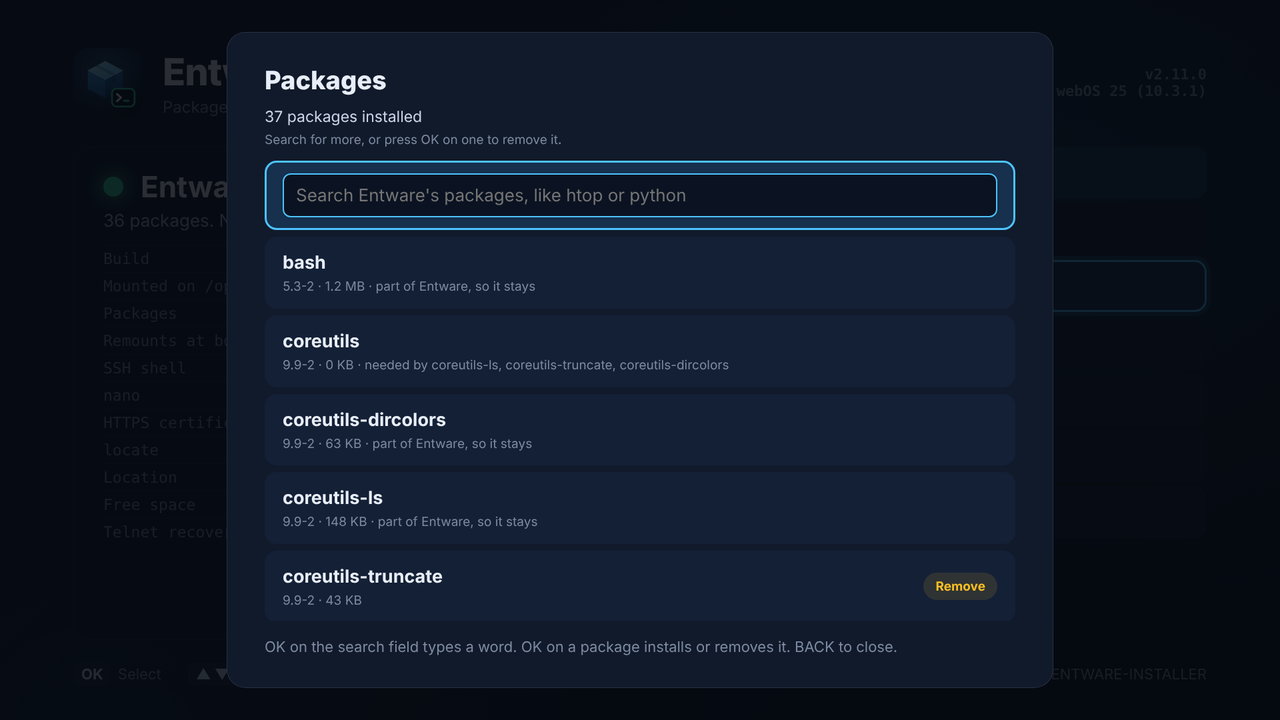
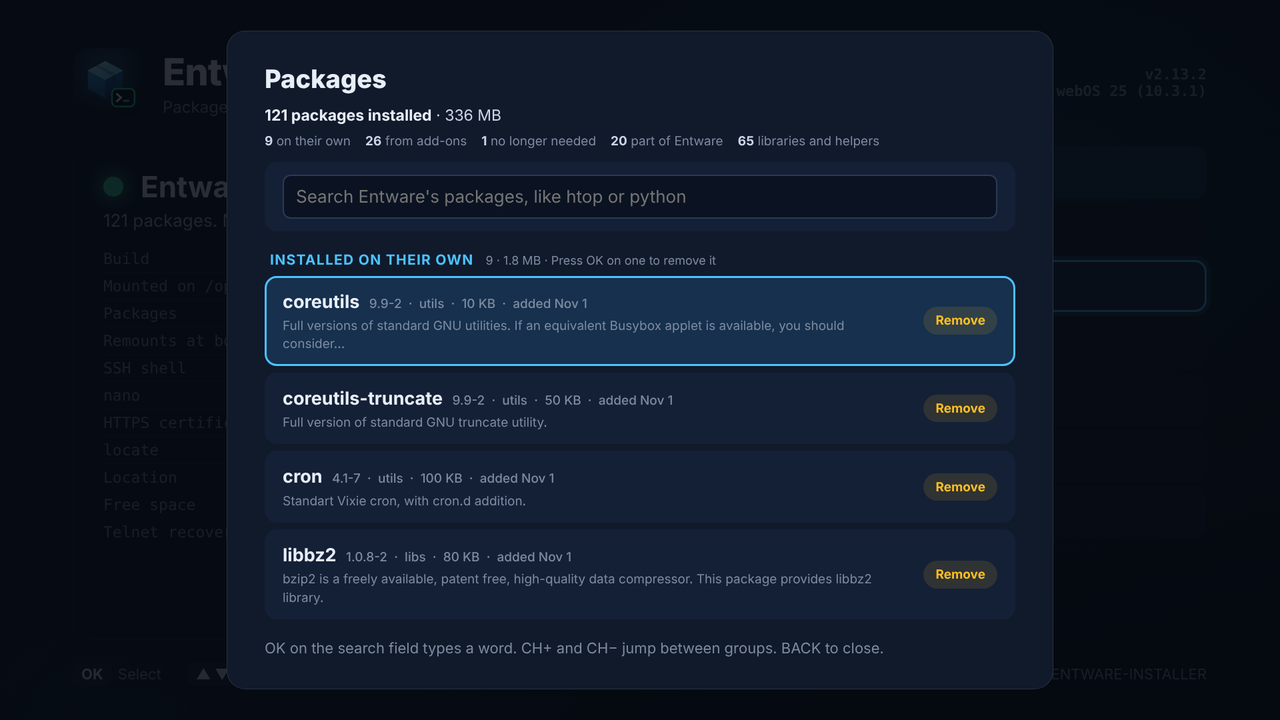
Packages screen: group what's installed and show what each package is
Group installed packages into own, from add-ons, no longer needed, part of
Entware, and libraries, with counts and sizes.  Each row shows version,
section, size, date added and description, with a tag for what you can do.
CH+ and CH- jump between groups.  An add-on's package offers to remove the
add-on.  installed --json reads opkg's files in one awk pass (0.1s on the TV).

diff --git a/webos-app/src/app.js b/webos-app/src/app.js
@@ -20,7 +20,7 @@
     var REPO_PATH = '/ohmybahgosh/WEBOS-ENTWARE-INSTALLER';
     var RELEASES_API = 'https://api.github.com/repos' + REPO_PATH + '/releases/latest';
     var HBC_EXEC = 'luna://org.webosbrew.hbchannel.service/exec';
-    var KEY = { UP: 38, DOWN: 40, ENTER: 13, BACK: 461, ESC: 27, BACKSPACE: 8 };
+    var KEY = { UP: 38, DOWN: 40, ENTER: 13, BACK: 461, ESC: 27, BACKSPACE: 8, CH_UP: 33, CH_DOWN: 34 };
 
     // The script ships inside the app: <app dir>/assets/webos-entware-installer.sh
     var appDir = decodeURIComponent(window.location.pathname).replace(/\/[^\/]*$/, '');
@@ -430,7 +430,9 @@
         for (var r = 0; r < rows.length; r++) { rows[r].className = 'addon' + (r === listIndex ? ' focus' : ''); }
         // Keep the focused row in view
         var box = $('addon-list'), row = rows[listIndex];
-        if (row.offsetTop < box.scrollTop) { box.scrollTop = row.offsetTop; }
+        // A group's heading comes into view with its first row
+        var prev = row.previousElementSibling, top = prev && prev.className === 'pkg-group' ? prev.offsetTop : row.offsetTop;
+        if (top < box.scrollTop) { box.scrollTop = top; }
         else if (row.offsetTop + row.offsetHeight > box.scrollTop + box.clientHeight) { box.scrollTop = row.offsetTop + row.offsetHeight - box.clientHeight; }
     }
 
@@ -782,33 +784,83 @@
         });
     }
 
+    // What's installed, in groups: on their own, from add-ons, no longer
+    // needed, part of Entware, and the libraries others need
+    var PKG_GROUPS = [
+        { id: 'own', title: 'Installed on their own', short: 'on their own', note: 'Press OK on one to remove it' },
+        { id: 'addon', title: 'From add-ons', short: 'from add-ons', note: 'Remove these with their add-on' },
+        { id: 'orphan', title: 'No longer needed', short: 'no longer needed', note: 'Nothing uses these now, so they can go' },
+        { id: 'base', title: 'Part of Entware', short: 'part of Entware', note: 'Entware and its shell setup need these' },
+        { id: 'lib', title: 'Libraries and helpers', short: 'libraries and helpers', note: 'Other packages need these' }
+    ];
+    function pkgGroup(p) {
+        if (p.base) { return 'base'; }
+        if (p.addon) { return 'addon'; }
+        if (!p.auto) { return 'own'; }
+        return p.neededBy ? 'lib' : 'orphan';
+    }
+    var MONTHS = ['Jan', 'Feb', 'Mar', 'Apr', 'May', 'Jun', 'Jul', 'Aug', 'Sep', 'Oct', 'Nov', 'Dec'];
+    function when(t) {
+        if (!t) { return ''; }
+        var d = new Date(t * 1000);
+        return MONTHS[d.getMonth()] + ' ' + d.getDate() + (d.getFullYear() !== new Date().getFullYear() ? ', ' + d.getFullYear() : '');
+    }
     function pkgRow(p) {
         var i = pkgInstalled[p.name];
         if (!pkgQuery) {
-            var why = p.base ? 'part of Entware, so it stays' :
-                (p.neededBy ? 'needed by ' + p.neededBy : (p.addon ? 'from the ' + p.addon + ' add-on' : ''));
-            return { name: p.name, title: p.name, sub: p.version + '  ·  ' + kb(p.sizeKB) + (why ? '  ·  ' + why : ''),
-                pill: p.base || p.neededBy ? '' : 'Remove', cls: 'pill-warn', installed: true };
+            var g = pkgGroup(p);
+            var meta = [p.section, kb(p.sizeKB)];
+            if (g === 'own' || g === 'orphan') { meta.push('added ' + when(p.installed)); }
+            if (g === 'lib') { meta.push('needed by ' + short(p.neededBy, 60)); }
+            if (g === 'orphan') { meta.push('nothing needs it now'); }
+            return { name: p.name, version: p.version, group: g, title: p.name, sub: short(p.description, 110),
+                meta: meta.filter(function (x) { return x && x !== 'added '; }).join('  ·  '),
+                pill: { own: 'Remove', orphan: 'Remove', addon: (p.addonTitle || p.addon) + ' add-on', base: 'Entware', lib: 'Needed' }[g],
+                cls: { own: 'pill-warn', orphan: 'pill-warn', addon: 'pill-addon', base: 'pill-dim', lib: 'pill-dim' }[g], installed: true };
         }
-        return { name: p.name, title: p.name + '  ' + p.version, sub: short(p.description, 110),
+        return { name: p.name, version: p.version, title: p.name, sub: short(p.description, 110), meta: '',
             pill: i ? 'Installed' : 'Install', cls: i ? 'pill-ok' : 'pill-add', installed: !!i };
     }
 
     function renderPackages() {
+        var counts = {}, sizes = {}, total = 0;
+        if (!pkgQuery) {
+            // Grouped, and by name in each group
+            var order = {};
+            PKG_GROUPS.forEach(function (g, n) { order[g.id] = n; counts[g.id] = 0; sizes[g.id] = 0; });
+            pkgList.sort(function (x, y) {
+                var d = order[pkgGroup(x)] - order[pkgGroup(y)];
+                return d || (x.name < y.name ? -1 : (x.name > y.name ? 1 : 0));
+            });
+            pkgList.forEach(function (p) { var g = pkgGroup(p); counts[g]++; sizes[g] += p.sizeKB || 0; total += p.sizeKB || 0; });
+        }
         pkgRows = pkgList.map(pkgRow);
         var head = pkgQuery ?
             (pkgList.length ? esc(pkgList.length + (pkgList.length === 60 ? '+' : '') + ' packages match "' + pkgQuery + '"') :
                 'Nothing matches "' + esc(pkgQuery) + '".  Try a shorter word.') +
                 '  <span class="dim">Press OK on the search to change it, or clear it to see what\'s installed.</span>' :
-            esc(pkgList.length + ' packages installed') + '  <span class="dim">Search for more, or press OK on one to remove it.</span>';
-        var html = '<div class="list-head">' + head + '</div><div class="addons" id="addon-list">' +
+            '<b>' + esc(pkgList.length + ' packages installed') + '</b>  ·  ' + esc(kb(total)) +
+                '<div class="pkg-sum">' + PKG_GROUPS.filter(function (g) { return counts[g.id]; }).map(function (g) {
+                    return '<span><b>' + counts[g.id] + '</b> ' + esc(g.short) + '</span>';
+                }).join('') + '</div>';
+        var last = '';
+        var html = '<div class="list-head">' + head + '</div><div class="addons pkg-list" id="addon-list">' +
             '<div class="addon" data-i="0"><input id="pkg-q" class="pkg-q" type="text" maxlength="40" autocomplete="off" spellcheck="false" ' +
             'placeholder="Search Entware\'s packages, like htop or python" value="' + esc(pkgQuery) + '"></div>' +
             pkgRows.map(function (r, i) {
-                return '<div class="addon" data-i="' + (i + 1) + '"><div><b>' + esc(r.title) + '</b><small>' + esc(r.sub) + '</small></div>' +
+                var g = '';
+                if (!pkgQuery && r.group !== last) {
+                    last = r.group;
+                    var grp = PKG_GROUPS.filter(function (x) { return x.id === r.group; })[0];
+                    g = '<div class="pkg-group"><b>' + esc(grp.title) + '</b><span>' + counts[r.group] + ' · ' + esc(kb(sizes[r.group])) +
+                        '  ·  ' + esc(grp.note) + '</span></div>';
+                }
+                return g + '<div class="addon pkg" data-i="' + (i + 1) + '"><div><b>' + esc(r.title) + ' <span class="ver">' + esc(r.version || '') +
+                    (r.meta ? '  ·  ' + esc(r.meta) : '') + '</span></b>' + (r.sub ? '<small>' + esc(r.sub) + '</small>' : '') + '</div>' +
                     (r.pill ? '<span class="pill ' + r.cls + '">' + esc(r.pill) + '</span>' : '') + '</div>';
             }).join('') + '</div>';
-        overlay('packages', 'Packages', html, 'OK on the search field types a word.  OK on a package installs or removes it.  BACK to close.');
+        overlay('packages', 'Packages', html, pkgQuery ? 'OK on the search field types a word.  OK on a package installs it.  BACK to close.' :
+            'OK on the search field types a word.  CH+ and CH− jump between groups.  BACK to close.');
         var q = $('pkg-q');
         q.addEventListener('keydown', function (e) {
             var k = e.keyCode;
@@ -821,6 +873,18 @@
             row.addEventListener('click', function (e) { e.stopPropagation(); focusAddon(parseInt(row.getAttribute('data-i'), 10)); choosePackage(); });
         });
         focusAddon(Math.min(listIndex, pkgRows.length));
+    }
+
+    // CH+ and CH− (page up and down): the first package of the next or
+    // previous group
+    function jumpGroup(dir) {
+        if (pkgQuery || !pkgRows.length) { return; }
+        var starts = [];
+        pkgRows.forEach(function (r, i) { if (!i || r.group !== pkgRows[i - 1].group) { starts.push(i + 1); } });
+        var at = listIndex, to = null;
+        if (dir > 0) { starts.forEach(function (s0) { if (to === null && s0 > at) { to = s0; } }); }
+        else { starts.forEach(function (s0) { if (s0 < at) { to = s0; } }); if (to === null) { to = 0; } }
+        if (to !== null) { focusAddon(to); }
     }
 
     function runSearch(v) {
@@ -850,6 +914,12 @@
         }
         if (p && p.base) {
             overlay('message', esc(r.name), esc(r.name + ' is part of Entware or its shell setup, so it stays installed.'), 'Press OK or BACK to go back.');
+            return;
+        }
+        if (p && p.addon) {
+            confirmThen('Remove the ' + (p.addonTitle || p.addon) + ' add-on?', r.name + ' came with the ' + (p.addonTitle || p.addon) + ' add-on, so it goes with the add-on, along with its setup.' +
+                '  You can add it again from Add-ons any time.', function () { startJob('remove ' + p.addon); });
+            backTo = 'packages';
             return;
         }
         if (p && p.neededBy) {
@@ -1102,6 +1172,7 @@
     document.addEventListener('keydown', function (e) {
         var k = e.keyCode;
         if (/^(addons|updates|report|packages|logs|addoninfo|web)$/.test(overlayMode || '')) {
+            if (overlayMode === 'packages' && (k === KEY.CH_UP || k === KEY.CH_DOWN)) { jumpGroup(k === KEY.CH_DOWN ? 1 : -1); e.preventDefault(); return; }
             if (k === KEY.UP) { focusAddon(listIndex - 1); }
             else if (k === KEY.DOWN) { focusAddon(listIndex + 1); }
             else if (k === KEY.ENTER) {

diff --git a/tests/ui-test.js b/tests/ui-test.js
@@ -55,9 +55,11 @@ function demo(scenario) {
     if (scenario === 'fresh') { Object.assign(base, { installed: false, mounted: false, opkg: false, packages: null, diskUsed: '' }); }
     let job = null;
     const INSTALLED = [
-        { name: 'bash', version: '5.3-2', sizeKB: 1217, auto: false, neededBy: '', base: true, addon: '' },
-        { name: 'libncurses', version: '6.4-3', sizeKB: 300, auto: true, neededBy: 'bash, htop', base: false, addon: '' },
-        { name: 'tmux', version: '3.5a-1', sizeKB: 812, auto: false, neededBy: '', base: false, addon: 'tmux' }
+        { name: 'bash', version: '5.3-2', sizeKB: 1217, auto: false, neededBy: '', base: true, addon: '', section: 'shells', description: 'The GNU Bourne Again SHell', installed: 1761000000 },
+        { name: 'libncurses', version: '6.4-3', sizeKB: 300, auto: true, neededBy: 'bash, htop', base: false, addon: '', section: 'libs', description: 'Terminal handling library', installed: 1761000000 },
+        { name: 'tmux', version: '3.5a-1', sizeKB: 812, auto: false, neededBy: '', base: false, addon: 'tmux', addonTitle: 'tmux', section: 'utils', description: 'Terminal multiplexer', installed: 1762000000 },
+        { name: 'jq', version: '1.7.1-1', sizeKB: 250, auto: false, neededBy: '', base: false, addon: '', section: 'utils', description: 'Command-line JSON processor', installed: 1762100000 },
+        { name: 'libfoo', version: '1.0-1', sizeKB: 40, auto: true, neededBy: '', base: false, addon: '', section: 'libs', description: 'Leftover library', installed: 1761500000 }
     ];
     const ALL = [
         { name: 'btop', version: '1.4.5-1', description: 'Resource monitor' },
@@ -108,7 +110,7 @@ function demo(scenario) {
                 const a = /^(add|remove) (.*)$/.exec(job.name);
                 if (a) { ADDONS.find((x) => x.id === a[2]).state = a[1] === 'add' ? 'installed' : 'notInstalled'; }
                 const pk = /^pkg-(add|remove) (.*)$/.exec(job.name);
-                if (pk && pk[1] === 'add') { INSTALLED.push({ name: pk[2], version: '3.4.1-1', sizeKB: 400, auto: false, neededBy: '', base: false, addon: '' }); }
+                if (pk && pk[1] === 'add') { INSTALLED.push({ name: pk[2], version: '3.4.1-1', sizeKB: 400, auto: false, neededBy: '', base: false, addon: '', section: 'admin', description: 'Interactive processes viewer', installed: 1762200000 }); }
                 if (pk && pk[1] === 'remove') { INSTALLED.splice(INSTALLED.findIndex((x) => x.name === pk[2]), 1); }
                 if (job.name === 'move appstore') { Object.assign(base, { location: 'appstore', userFreeMB: 181, appFreeMB: 1639, freeMB: 1639 }); }
             }
@@ -409,8 +411,24 @@ function check(name, cond) {
     await press(page, 'ArrowDown', order2.indexOf('packages'));
     await press(page, 'Enter');
     await page.waitForSelector('#pkg-q');
-    check('Packages opens with a search field and what\'s installed', /3 packages installed/.test(await page.textContent('#overlay-body')) && (await page.$$('.addon')).length === 4);
-    check('a package Entware needs, or that others need, has no Remove', await page.$$eval('.addon', (rs) => !/Remove/.test(rs[1].textContent) && /part of Entware/.test(rs[1].textContent) && !/Remove/.test(rs[2].textContent) && /needed by bash, htop/.test(rs[2].textContent) && /Remove/.test(rs[3].textContent)));
+    check('Packages opens with a search field and what\'s installed', /5 packages installed/.test(await page.textContent('#overlay-body')) && (await page.$$('.addon')).length === 6);
+    check('packages are grouped: own, add-ons, no longer needed, Entware, libraries',
+        /Installed on their own.*From add-ons.*No longer needed.*Part of Entware.*Libraries and helpers/.test(await page.$$eval('.pkg-group', (gs) => gs.map((g) => g.textContent).join('|'))));
+    check('each row says what it is and what you can do', await page.$$eval('.addon', (rs) =>
+        /jq/.test(rs[1].textContent) && /Remove/.test(rs[1].textContent) && /1\.7\.1-1/.test(rs[1].textContent) && /JSON/.test(rs[1].textContent) &&
+        /tmux/.test(rs[2].textContent) && /tmux add-on/.test(rs[2].textContent) &&
+        /libfoo/.test(rs[3].textContent) && /Remove/.test(rs[3].textContent) && /nothing needs it now/.test(rs[3].textContent) &&
+        /bash/.test(rs[4].textContent) && /Entware/.test(rs[4].textContent) && !/Remove/.test(rs[4].textContent) &&
+        /libncurses/.test(rs[5].textContent) && /Needed/.test(rs[5].textContent) && /needed by bash, htop/.test(rs[5].textContent) && !/Remove/.test(rs[5].textContent)));
+    check('the summary counts each group', /1 on their own/.test(await page.$eval('.pkg-sum', (e) => e.textContent.replace(/\s+/g, ' '))));
+    await press(page, 'ArrowDown');
+    await press(page, 'PageDown');
+    check('CH+ jumps to the next group', /tmux/.test(await page.$eval('.addon.focus', (r) => r.textContent)));
+    await press(page, 'PageDown', 2);
+    check('and again', /bash/.test(await page.$eval('.addon.focus', (r) => r.textContent)));
+    await press(page, 'PageUp');
+    check('CH- jumps back', /libfoo/.test(await page.$eval('.addon.focus', (r) => r.textContent)));
+    await press(page, 'ArrowUp', 10);
     await page.screenshot({ path: path.join(OUT, '13-packages.png') });
     await press(page, 'Enter');
     check('OK on the search field puts the cursor in it', await page.evaluate(() => document.activeElement && document.activeElement.id === 'pkg-q'));
@@ -434,18 +452,22 @@ function check(name, cond) {
     await page.keyboard.press('Control+A');
     await page.keyboard.press('Backspace');
     await press(page, 'Enter');
-    await page.waitForFunction(() => /4 packages installed/.test(document.getElementById('overlay-body').textContent));
+    await page.waitForFunction(() => /6 packages installed/.test(document.getElementById('overlay-body').textContent));
     check('clearing the search goes back to what\'s installed', true);
-    await press(page, 'ArrowDown', 3);
+    await press(page, 'ArrowDown');
     await press(page, 'Enter');
-    check('asks before removing a package', /Remove tmux\?/.test(await overlayTitle(page)));
+    check('asks before removing a package', /Remove htop\?/.test(await overlayTitle(page)));
     const reads = await page.evaluate(() => window.ENTWARE_CALLS.filter((c) => c === 'installed --json').length);
     await press(page, 'Escape');
     await page.waitForSelector('#pkg-q');
     check('BACK on the question shows the list again straight away, without reading it again',
-        await page.evaluate(() => window.ENTWARE_CALLS.filter((c) => c === 'installed --json').length) === reads && /tmux/.test(await page.$eval('.addon.focus', (r) => r.textContent)));
-    await press(page, 'ArrowUp', 5);
-    await press(page, 'ArrowDown');
+        await page.evaluate(() => window.ENTWARE_CALLS.filter((c) => c === 'installed --json').length) === reads && /htop/.test(await page.$eval('.addon.focus', (r) => r.textContent)));
+    await press(page, 'ArrowDown', 2);
+    await press(page, 'Enter');
+    check('an add-on\'s package is removed with its add-on', /Remove the tmux add-on\?/.test(await overlayTitle(page)));
+    await press(page, 'Escape');
+    await page.waitForSelector('#pkg-q');
+    await press(page, 'ArrowDown', 2);
     await press(page, 'Enter');
     check('bash says it stays', /part of Entware/.test(await page.textContent('#overlay-body')));
     await press(page, 'Escape');

diff --git a/webos-app/src/style.css b/webos-app/src/style.css
@@ -122,3 +122,17 @@ footer .right { margin: 0 0 0 auto; }
 .addons-short { max-height: 260px; }
 .panel-title .pill { font-size: 19px; vertical-align: middle; }
 .cred.web-code { font-family: "DejaVu Sans Mono", "Liberation Mono", Menlo, Consolas, monospace; font-size: 46px; font-weight: 700; letter-spacing: 6px; color: #e8eef7; margin: 4px 0 14px; }
+
+/* Packages: what's installed, in groups */
+.list-head b { color: #e8eef7; }
+.pkg-sum { display: flex; flex-wrap: wrap; gap: 8px 22px; margin-top: 8px; font-size: 19px; color: #7d8ba1; }
+.pkg-sum b { color: #c9d6e8; }
+.pkg-group { display: flex; align-items: baseline; gap: 18px; padding: 18px 8px 8px; }
+.pkg-group b { font-size: 21px; text-transform: uppercase; letter-spacing: .06em; color: #4cc3ff; }
+.pkg-group span { font-size: 18px; color: #7d8ba1; }
+.addon.pkg { padding: 10px 24px; margin-bottom: 8px; }
+.addon.pkg b { font-size: 25px; }
+.addon .ver { font-size: 19px; font-weight: 500; color: #7d8ba1; margin-left: 8px; white-space: pre; }
+.addon.pkg small { font-size: 18px; white-space: nowrap; overflow: hidden; text-overflow: ellipsis; max-width: 900px; }
+.pill-addon { color: #9be7ff; background: rgba(76, 195, 255, .12); }
+.pill-dim { color: #7d8ba1; background: rgba(125, 139, 161, .12); }

diff --git a/CHANGELOG.md b/CHANGELOG.md
@@ -4,6 +4,12 @@ All notable changes to the WebOS Entware installer.  Versions follow [semantic v
 
 ## [2.13.2] - 2026-11-04
 
+### Changed
+
+- **The TV app's Packages screen shows what's installed much better**: packages are grouped into **Installed on their own**, **From add-ons**, **No longer needed**, **Part of Entware** and **Libraries and helpers**, with how many are in each group at the top and their size by each heading.  Every package shows its version, section, size, when it was added and what it is, and a tag saying what you can do: **Remove**, the add-on it came with, **Entware** or **Needed** (with what needs it).  CH+ and CH− jump between groups.
+- **Removing an add-on's package removes the add-on:** OK on a package that came with an add-on offers to remove that add-on, setup included, rather than leave it half there.
+- **Listing what's installed is much faster:** about 0.1 seconds on a C2 with 121 packages, down from about 5.
+
 ### Fixed
 
 - **"null packages" on the TV app's status** ([#3](https://github.com/ohmybahgosh/WEBOS-ENTWARE-INSTALLER/issues/3)): while another opkg held its lock (an update check, an install from SSH), the status check couldn't run opkg, so it had no package count, and the full check could say opkg doesn't run.  It now counts packages from opkg's status file and checks opkg without waiting for the lock.  The app also leaves the count out rather than show "null" if it's ever missing.

diff --git a/README.md b/README.md
@@ -113,7 +113,7 @@ The easiest way in.  It runs the same installer underneath, as root through the 
 <p align="center"><img src="images/app-packages.gif" width="720" alt="Animated: the Packages screen lists what's installed, then a search for top finds atop, htop and iftop, and installing iftop runs in the background until it shows Installed"></p>
 
 <p align="center">
-  <img src="images/app-packages.png" width="49%" alt="The Packages screen: 37 packages installed, a search field at the top, and each package's version and size, with Remove, or why it stays">
+  <img src="images/app-packages.png" width="49%" alt="The Packages screen: 121 packages installed, counted by group (on their own, from add-ons, no longer needed, part of Entware, libraries), with each package's version, section, size, date added and description">
   <img src="images/app-logs.png" width="49%" alt="Full check and logs: the full check, this boot's log, and recent tasks like Install htop and Add banner, each with View">
 </p>
 <p align="center">
